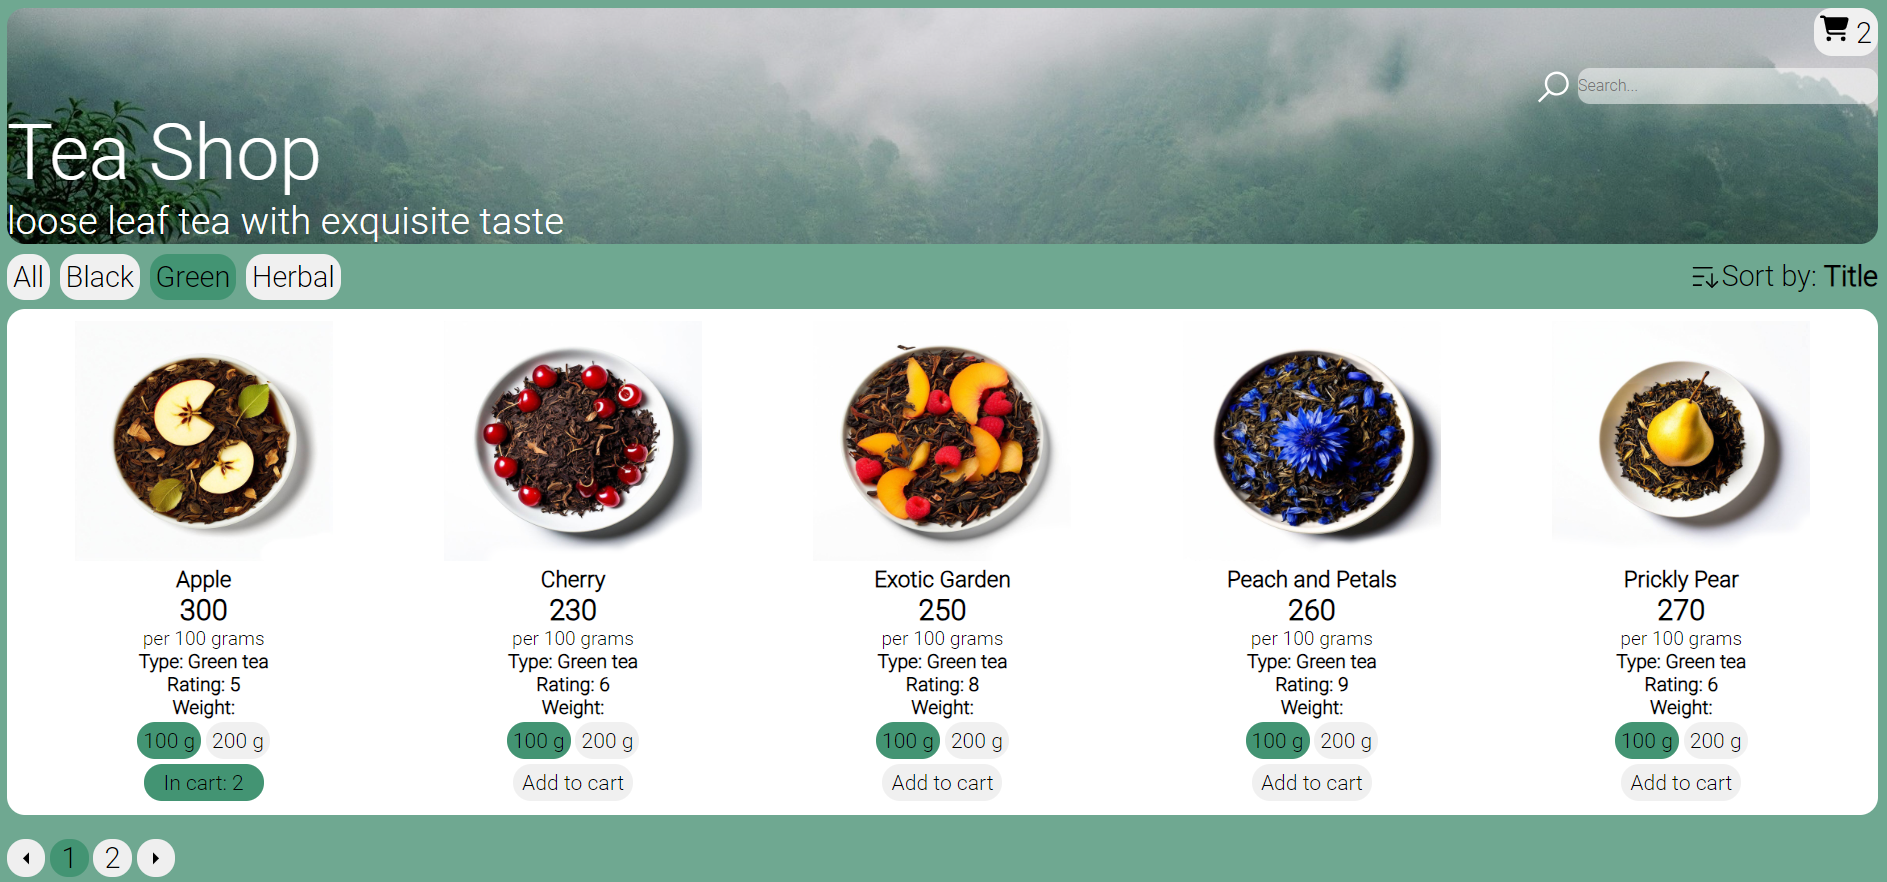
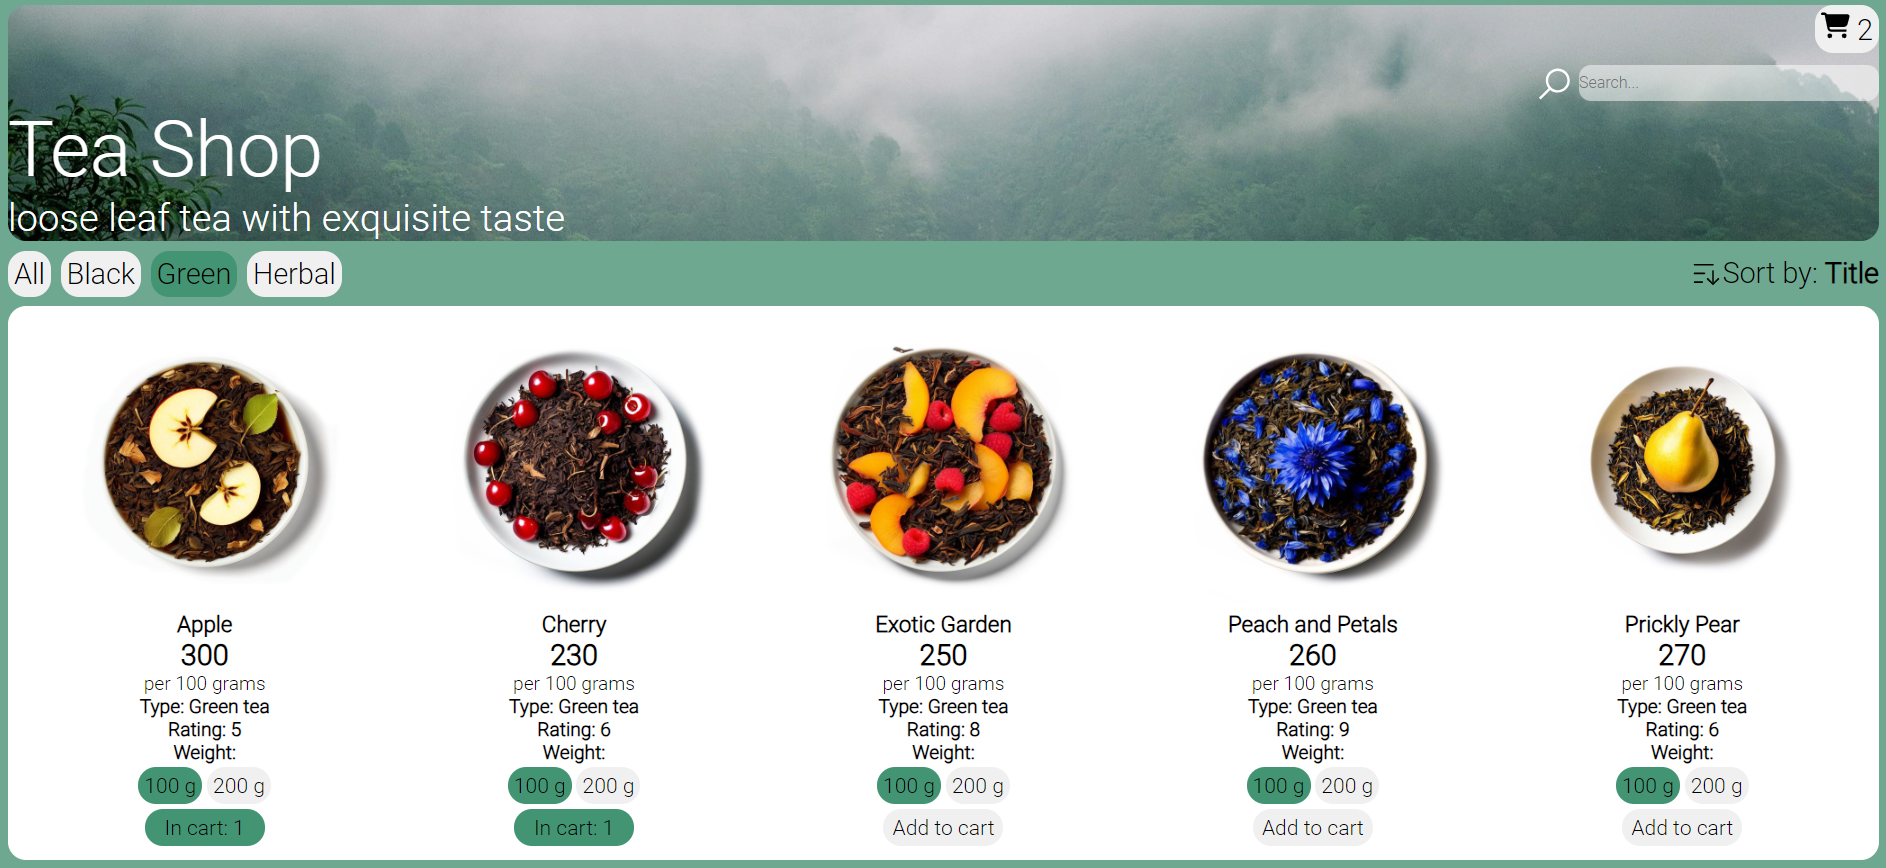
update preview

diff --git a/src/pages/TeaPage/SingleTea.module.scss b/src/pages/TeaPage/SingleTea.module.scss
@@ -11,8 +11,8 @@
     align-items: center;
     flex-flow: row wrap;
     .img {
-        width: 440px;
-        height: 400px;
+        width: 450px;
+        height: 450px;
         border-radius: $radius;
         @media screen and (max-width: 430px) {
             width: 320px;

diff --git a/src/components/TeaCard/TeaCard.module.scss b/src/components/TeaCard/TeaCard.module.scss
@@ -7,8 +7,8 @@
     align-items: center;
     text-align: center;
     .image {
-        height: 200px;
-        width: 215px;
+        height: 240px;
+        width: 240px;
         transition: all 0.3s ease-in-out;
         &:hover {
             transform: scale(0.9);
